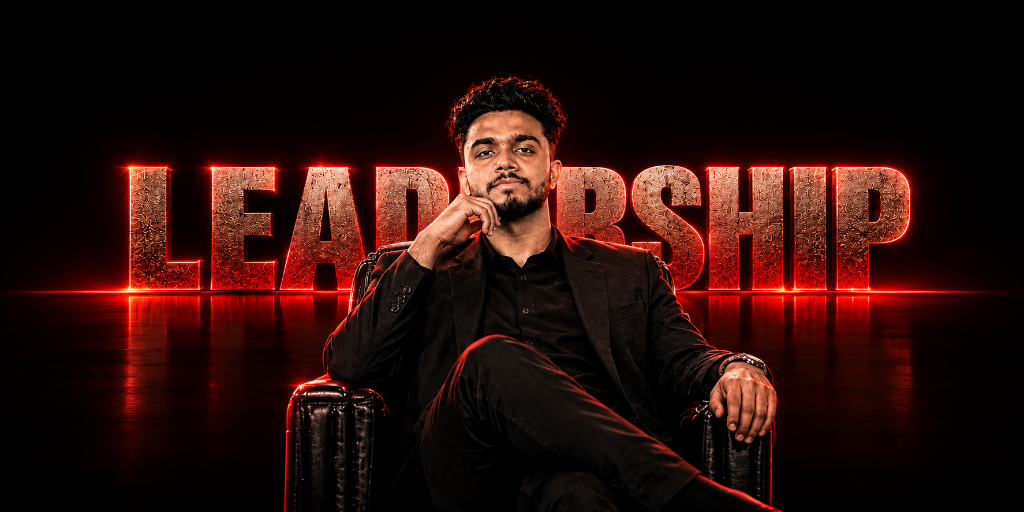
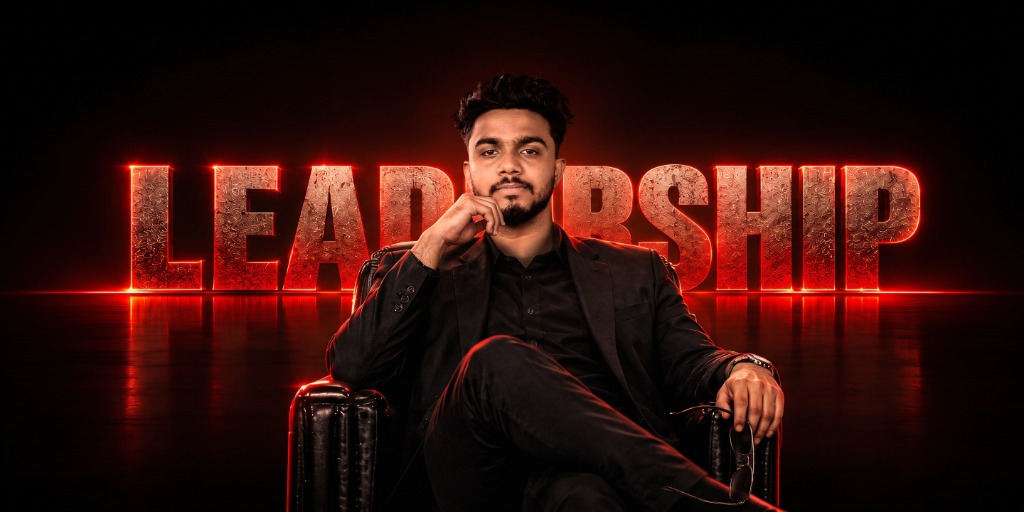
feat: replace leadership and skills artwork with updated high-resolution images

diff --git a/components/sections/Leadership.tsx b/components/sections/Leadership.tsx
@@ -185,7 +185,7 @@ export default function Leadership() {
       <div className="absolute inset-0 z-0 pointer-events-none overflow-hidden flex items-center justify-center">
         <img
           ref={bgImgRef}
-          src="/media/leadership-clean-throne.png"
+          src="/media/leadership-clean-throne.jpg"
           alt="Sayeed Ibne Saif — Executive Leadership"
           className="w-full h-full object-cover object-[center_30%] sm:object-center select-none filter contrast-105 brightness-100 will-change-transform"
           style={{ clipPath: "inset(0% 50% 0% 50%)" }}
